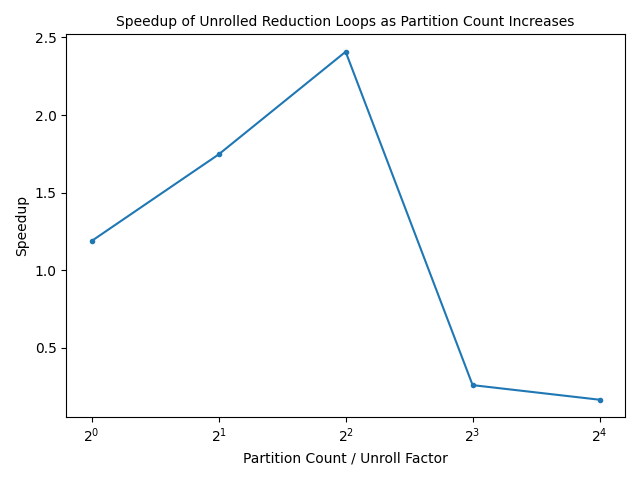
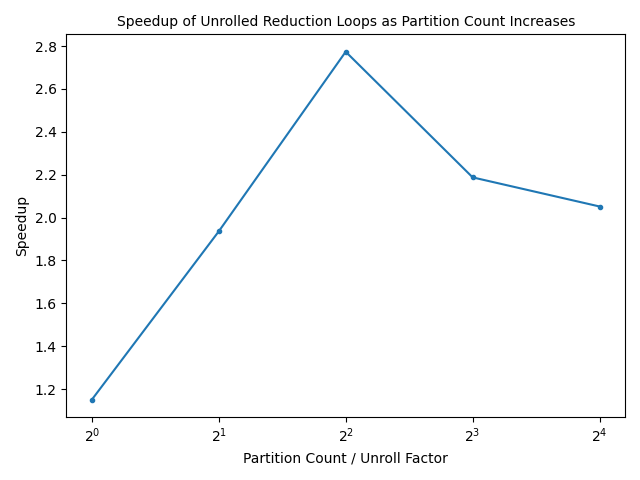
better

diff --git a/HW3/part1/skeleton_red_loop.py b/HW3/part1/skeleton_red_loop.py
@@ -14,16 +14,16 @@ typedef double reduce_type;
 
 """
 
+
 # The reference loop simply adds together all elements in the array
 def reference_reduction_source():
-
     # function header
     function = "void reference_reduction(reduce_type *b, int size) {"
 
     # loop header
     loop = "  for (int i = 1; i < size; i++) {"
 
-    #simple reduction equation
+    # simple reduction equation
     eq = "    b[0] += b[i];"
 
     # closing braces
@@ -33,12 +33,13 @@ def reference_reduction_source():
     # joining together all parts
     return "\n".join([function, loop, eq, loop_close, function_close])
 
+
 # Your homework will largely take place here. Create a loop that
 # is semantically equivalent to the reference loop. That is, it computes
 # a[0] = a[0] + a[1] + a[2] + a[3] + a[4] ... + a[size] <--- SUPER EMBARASSING OFF BY ONE ERROR FROM WHOEVER WROTE THIS COMMENT
 #
 # where size is passed in by the main source string.
-# You should unroll by the unroll factor. 
+# You should unroll by the unroll factor.
 #
 # You can assume the size and the number of partitions will be
 # a power of 2, which should make the partitioning logic simpler.
@@ -47,23 +48,27 @@ def reference_reduction_source():
 # several power-of-2 unroll factors, e.g. 2,4,8,16. You can assume
 # partition is less than size.
 def homework_reduction_source(partitions):
-    header = "".join(f"\nint p{i} = {i} * size / {partitions};" for i in range(partitions))
+    header = f"\nsize_t partition_size = (size_t) size / {partitions};\n"
+    header += "".join(
+        f"\nsize_t p{i} = {i} * partition_size;\nreduce_type p{i}_acc = a[p{i}];"
+        for i in range(partitions)
+    )
     header = header.replace("\n", "\n\t") + "\n"
 
-    body = "".join(f"\na[p{i}] += a[p{i} + i];" for i in range(partitions))
+    body = "".join(f"\np{i}_acc += a[p{i} + i];" for i in range(partitions))
     body = body.replace("\n", "\n\t\t\t") + "\n"
 
-    footer = "".join(f"\na[0] += a[p{i}];" for i in range(1, partitions))
-    footer = footer.replace("\n", "\n\t") + "\n"
+    footer = f"\ta[0] = {' + '.join(f'p{i}_acc' for i in range(partitions))};\n"
 
     return f"""void homework_reduction(reduce_type *a, int size) {{
 {header}
-    int iters = size / {partitions};
+    size_t iters = size / {partitions};
     for (int i = 1; i < iters; i++) {{
 {body}
     }}
 {footer}
 }}"""
+
 
 # String for the main function, including timings and
 # reference checks.
@@ -109,20 +114,30 @@ int main() {
 
 params_str = "#define UNROLL_FACTOR {}"
 
+
 # Create the program source code
 def pp_program(partitions):
-
     # Your function is called here
     homework_string = homework_reduction_source(partitions)
 
     # View your homework source string here for debugging
-    return "\n".join([top_source_string, reference_reduction_source(), homework_string, params_str.format(partitions), main_source_string])
+    return "\n".join(
+        [
+            top_source_string,
+            reference_reduction_source(),
+            homework_string,
+            params_str.format(partitions),
+            main_source_string,
+        ]
+    )
+
 
 # Write a string to a file (helper function)
 def write_str_to_file(st, fname):
-    f = open(fname, 'w')
+    f = open(fname, "w")
     f.write(st)
     f.close()
+
 
 # Compile the program. Don't change the options here for the official
 # assignment report. Feel free to change them for your own curiosity.
@@ -138,14 +153,16 @@ def write_str_to_file(st, fname):
 def compile_program():
     cmd = "clang++ -std=c++17 -fno-unroll-loops -O3 -o homework homework.cpp"
     print("running: " + cmd)
-    assert(os.system(cmd) == 0)
+    assert os.system(cmd) == 0
+
 
 # Run the program
 def run_program():
     cmd = "./homework"
     print("running: " + cmd)
     print("")
-    assert(os.system(cmd) == 0)
+    assert os.system(cmd) == 0
+
 
 # This is the top level program function. Generate the C++ program,
 # compile it, and run it.
@@ -169,14 +186,22 @@ def generate_and_run(partitions):
     # run the program
     run_program()
 
+
 # gets one command line arg unroll factor (UF)
 def main():
-    parser = argparse.ArgumentParser(description='Part 2 of Homework 1: exploiting ILP by unrolling reduction loop iterations.')
-    parser.add_argument('unroll_factor', metavar='UF', type=int,
-                   help='how many loop iterations to unroll')
+    parser = argparse.ArgumentParser(
+        description="Part 2 of Homework 1: exploiting ILP by unrolling reduction loop iterations."
+    )
+    parser.add_argument(
+        "unroll_factor",
+        metavar="UF",
+        type=int,
+        help="how many loop iterations to unroll",
+    )
     args = parser.parse_args()
     UF = args.unroll_factor
     generate_and_run(UF)
+
 
 if __name__ == "__main__":
     main()

diff --git a/HW3/part1/graph.py b/HW3/part1/graph.py
@@ -44,11 +44,11 @@ def plot_red():
     # each point is
     # (partitions, speedup)
     red_data = [
-        (1, 1.18864),
-        (2, 1.74616),
-        (4, 2.40772),
-        (8, 0.259832),
-        (16, 0.165814),
+        (1, 1.1504),
+        (2, 1.93572),
+        (4, 2.77385),
+        (8, 2.18767),
+        (16, 2.05182),
     ]
 
     plt.clf()

diff --git a/HW3/part1/checker_red_loop.h b/HW3/part1/checker_red_loop.h
@@ -1,5 +1,7 @@
 #include <assert.h>
+#include <stdio.h>
 
 void check_values(double *ref, double *actual, int size) {
+    printf("%lf %lf\n", ref[0], actual[0]);
     assert(ref[0] == actual[0]);
 } 

diff --git a/HW3/part1/WRITEUP.md b/HW3/part1/WRITEUP.md
@@ -10,6 +10,6 @@ In practice, the sequential unrolling seems to not do much better than the refer
 ## Reduction Loops
 ![](red.png)
 
-The above graph showcases how initially increasing the partition size results in performance gains, but quickly leads to massive performance degradations when using eight or more partitions. The initial gains make sense, as the partitions allow for more parallelism per iteration and we also are removing branches and comparisons. That said, even these initial gains are much smaller than what we saw for independent loops. While independent loops had a smaller proportion of memory operations and more total parallelizable operations, the reduction loops' involve, per partition, reading and writing to memory with only one addition in between. This probably explains the lower peak performance improvement for unrolling reduction loops compared to unrolling independent loops.
+The above graph showcases how initially increasing the partition size results in performance gains, but quickly leads to performance degradations when using eight or more partitions (it gets even worse past sixteen, too). The initial gains make sense, as the partitions allow for more parallelism per iteration and we also are removing branches and comparisons. That said, even these initial gains are much smaller than what we saw for independent loops. While independent loops had a smaller proportion of memory operations and more total parallelizable operations, the reduction loops' involve, per partition, reading and writing to memory with only one addition in between. This probably explains the lower peak performance improvement for unrolling reduction loops compared to unrolling independent loops.
 
 The large performance degradation after the partition count passes four can probably be explained by the memory hierarchy. As the partition count increases, the effective working set increases, as the accumulators for each partition are all frequently accessed throughout the loop as well as the rest of each partition's region. Thus, we have more cache pressure and perform worse. Additionally, the more partitions we have, the more difficulty the prefetcher will have preloading in soon-to-be accessed blocks. When we only have one partition, for example, a streaming prefetcher would probably remove almost all misses. But, with many partitions, we have many different streaming access patterns interleaved, which may be much more difficult to accurately predict for the processor.
